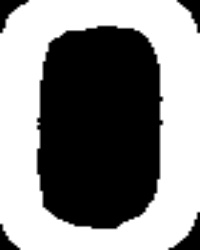
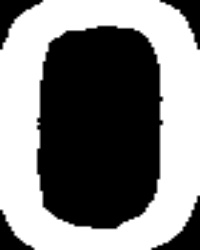
Update on pattern creation

diff --git a/id_number_identifier.py b/id_number_identifier.py
@@ -131,12 +131,20 @@ def match_elements_to_pattern(images_elements, pattern_elements):
                 score = cv2.minMaxLoc(matching_result)[1]
                 element_score[pattern_index] = score
             element_score = dict(sorted(element_score.items(), key=operator.itemgetter(1), reverse=True))
-
             matched_elements[image_element_index] = list(element_score.keys())[0]
         id_number = evaluate_elements(matched_elements)
         result_id_number['ID ' + str(ID_index + 1)] = id_number
         print(f'ID {ID_index + 1} : {id_number}')
     return result_id_number
+
+
+def show_images_with_id_number(images_color, matching_result):
+    for index, image in enumerate(images_color):
+        cv2.rectangle(image, (170, 345), (15, 300), (0, 255, 255), 2)
+        cv2.putText(image, matching_result['ID ' + str(index + 1)], (25, 285), cv2.FONT_HERSHEY_SIMPLEX, 0.85,
+                    (0, 255, 255), 2)
+        cv2.imshow('ID ' + str(index + 1), image)
+        cv2.waitKey(0)
 
 
 if __name__ == '__main__':
@@ -176,9 +184,4 @@ if __name__ == '__main__':
     # Calling method match_elements_to_pattern
     matching_result = match_elements_to_pattern(images_elements, pattern_elements)
 
-    for index, image in enumerate(images_color):
-        cv2.rectangle(image, (170, 345), (15, 300), (0, 255, 255), 2)
-        cv2.putText(image, matching_result['ID ' + str(index + 1)], (25, 285), cv2.FONT_HERSHEY_SIMPLEX, 0.85,
-                    (0, 255, 255), 2)
-        cv2.imshow('AMIN', image)
-        cv2.waitKey(0)
+    show_images_with_id_number(images_color, matching_result)

diff --git a/create_pattern.py b/create_pattern.py
@@ -46,7 +46,7 @@ def show_created_pattern_images(pattern_images_opened):
     for ind, pattern_image in enumerate(pattern_images_opened):
         contour = get_contours(pattern_image)
         (x, y, w, h) = cv2.boundingRect(contour[0])
-        cv2.drawContours(pattern_image, contour, -1, (255, 0, 0), 10)
+        cv2.drawContours(pattern_image, contour, -1, (255, 0, 0), 5)
         element = pattern_image[y:y + h, x:x + w]
         element = cv2.resize(element, (200, 250))
         pattern_list.append(element)
